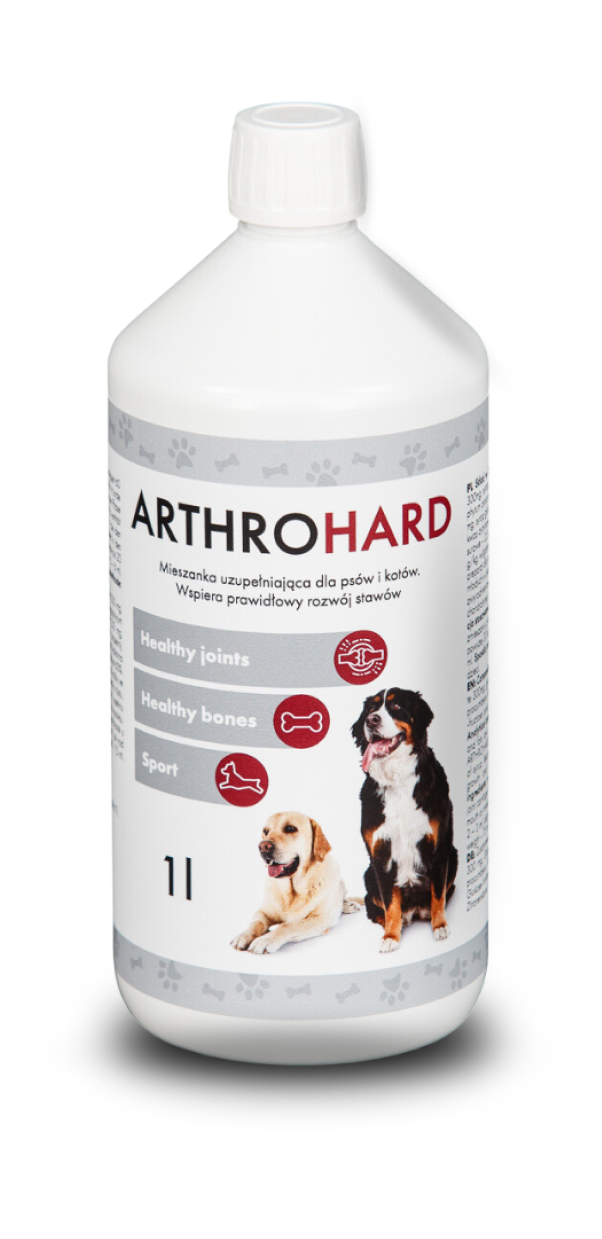
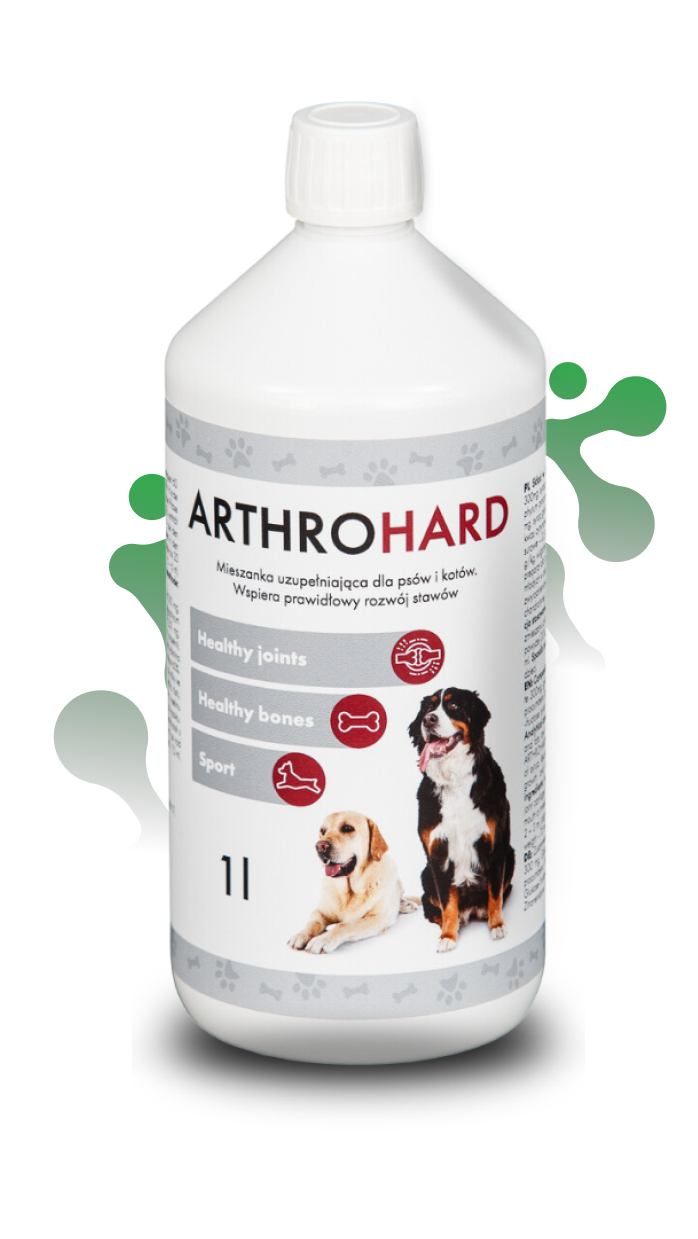
fix: bottle decorator sizing

Changed region(s): [[0.0598, 0.092, 0.9568, 0.8894]]

diff --git a/index.html b/index.html
@@ -259,16 +259,6 @@
 
             <div class="ingredients__center-container">
               <img
-                class="ingredients__decorator-1"
-                src="/src/assets/decorator-green.svg"
-                alt="layout decorator image"
-              />
-              <img
-                class="ingredients__decorator-2"
-                src="/src/assets/decorator-green.svg"
-                alt="layout decorator image"
-              />
-              <img
                 class="ingredients__image"
                 src="/src/assets/arthorhard-bottle-image.png"
                 alt="Opis obrazu"

diff --git a/src/styles/components/ingredients/index.scss b/src/styles/components/ingredients/index.scss
@@ -23,27 +23,6 @@
     }
   }
 
-  &__decorator-1,
-  &__decorator-2 {
-    position: absolute;
-    width: 50%;
-    z-index: 1;
-  }
-
-  &__decorator-1 {
-    width: 50%;
-    transform: rotate(-20deg);
-    top: 400px;
-    left: -20px;
-  }
-
-  &__decorator-2 {
-    width: 40%;
-    transform: rotate(0deg);
-    top: 280px;
-    right: -30px;
-  }
-
   &__center-container {
     position: relative;
     display: flex;
@@ -67,6 +46,7 @@
     @include button-red;
     position: absolute;
     bottom: 5%;
+    z-index: 5;
   }
 
   &__image {
